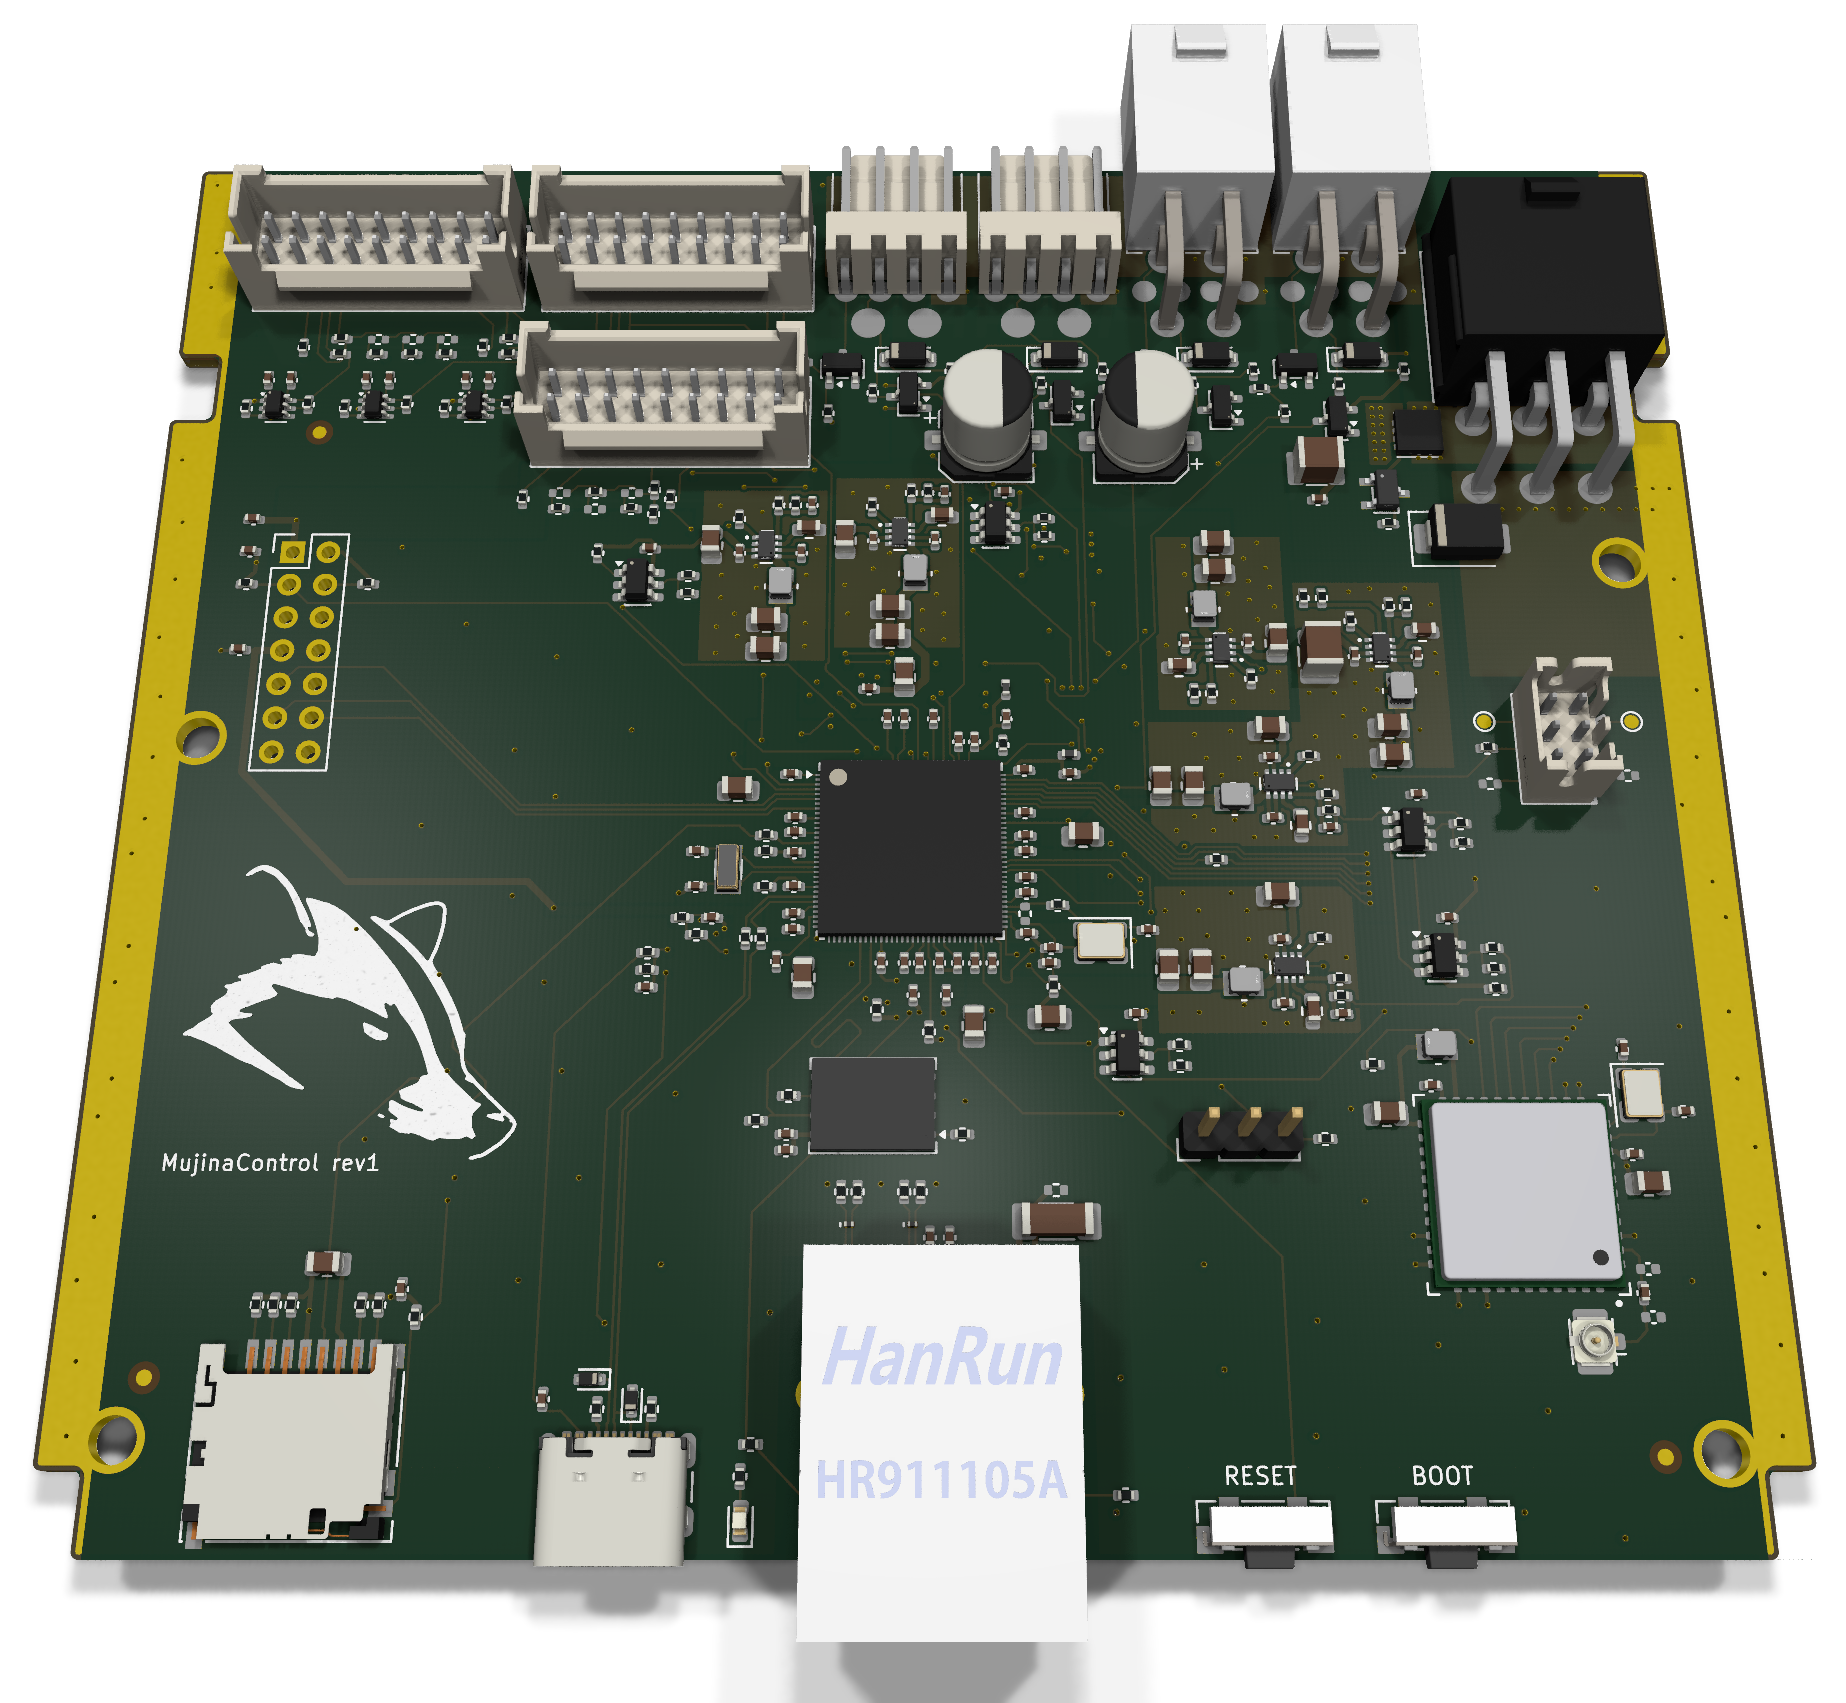
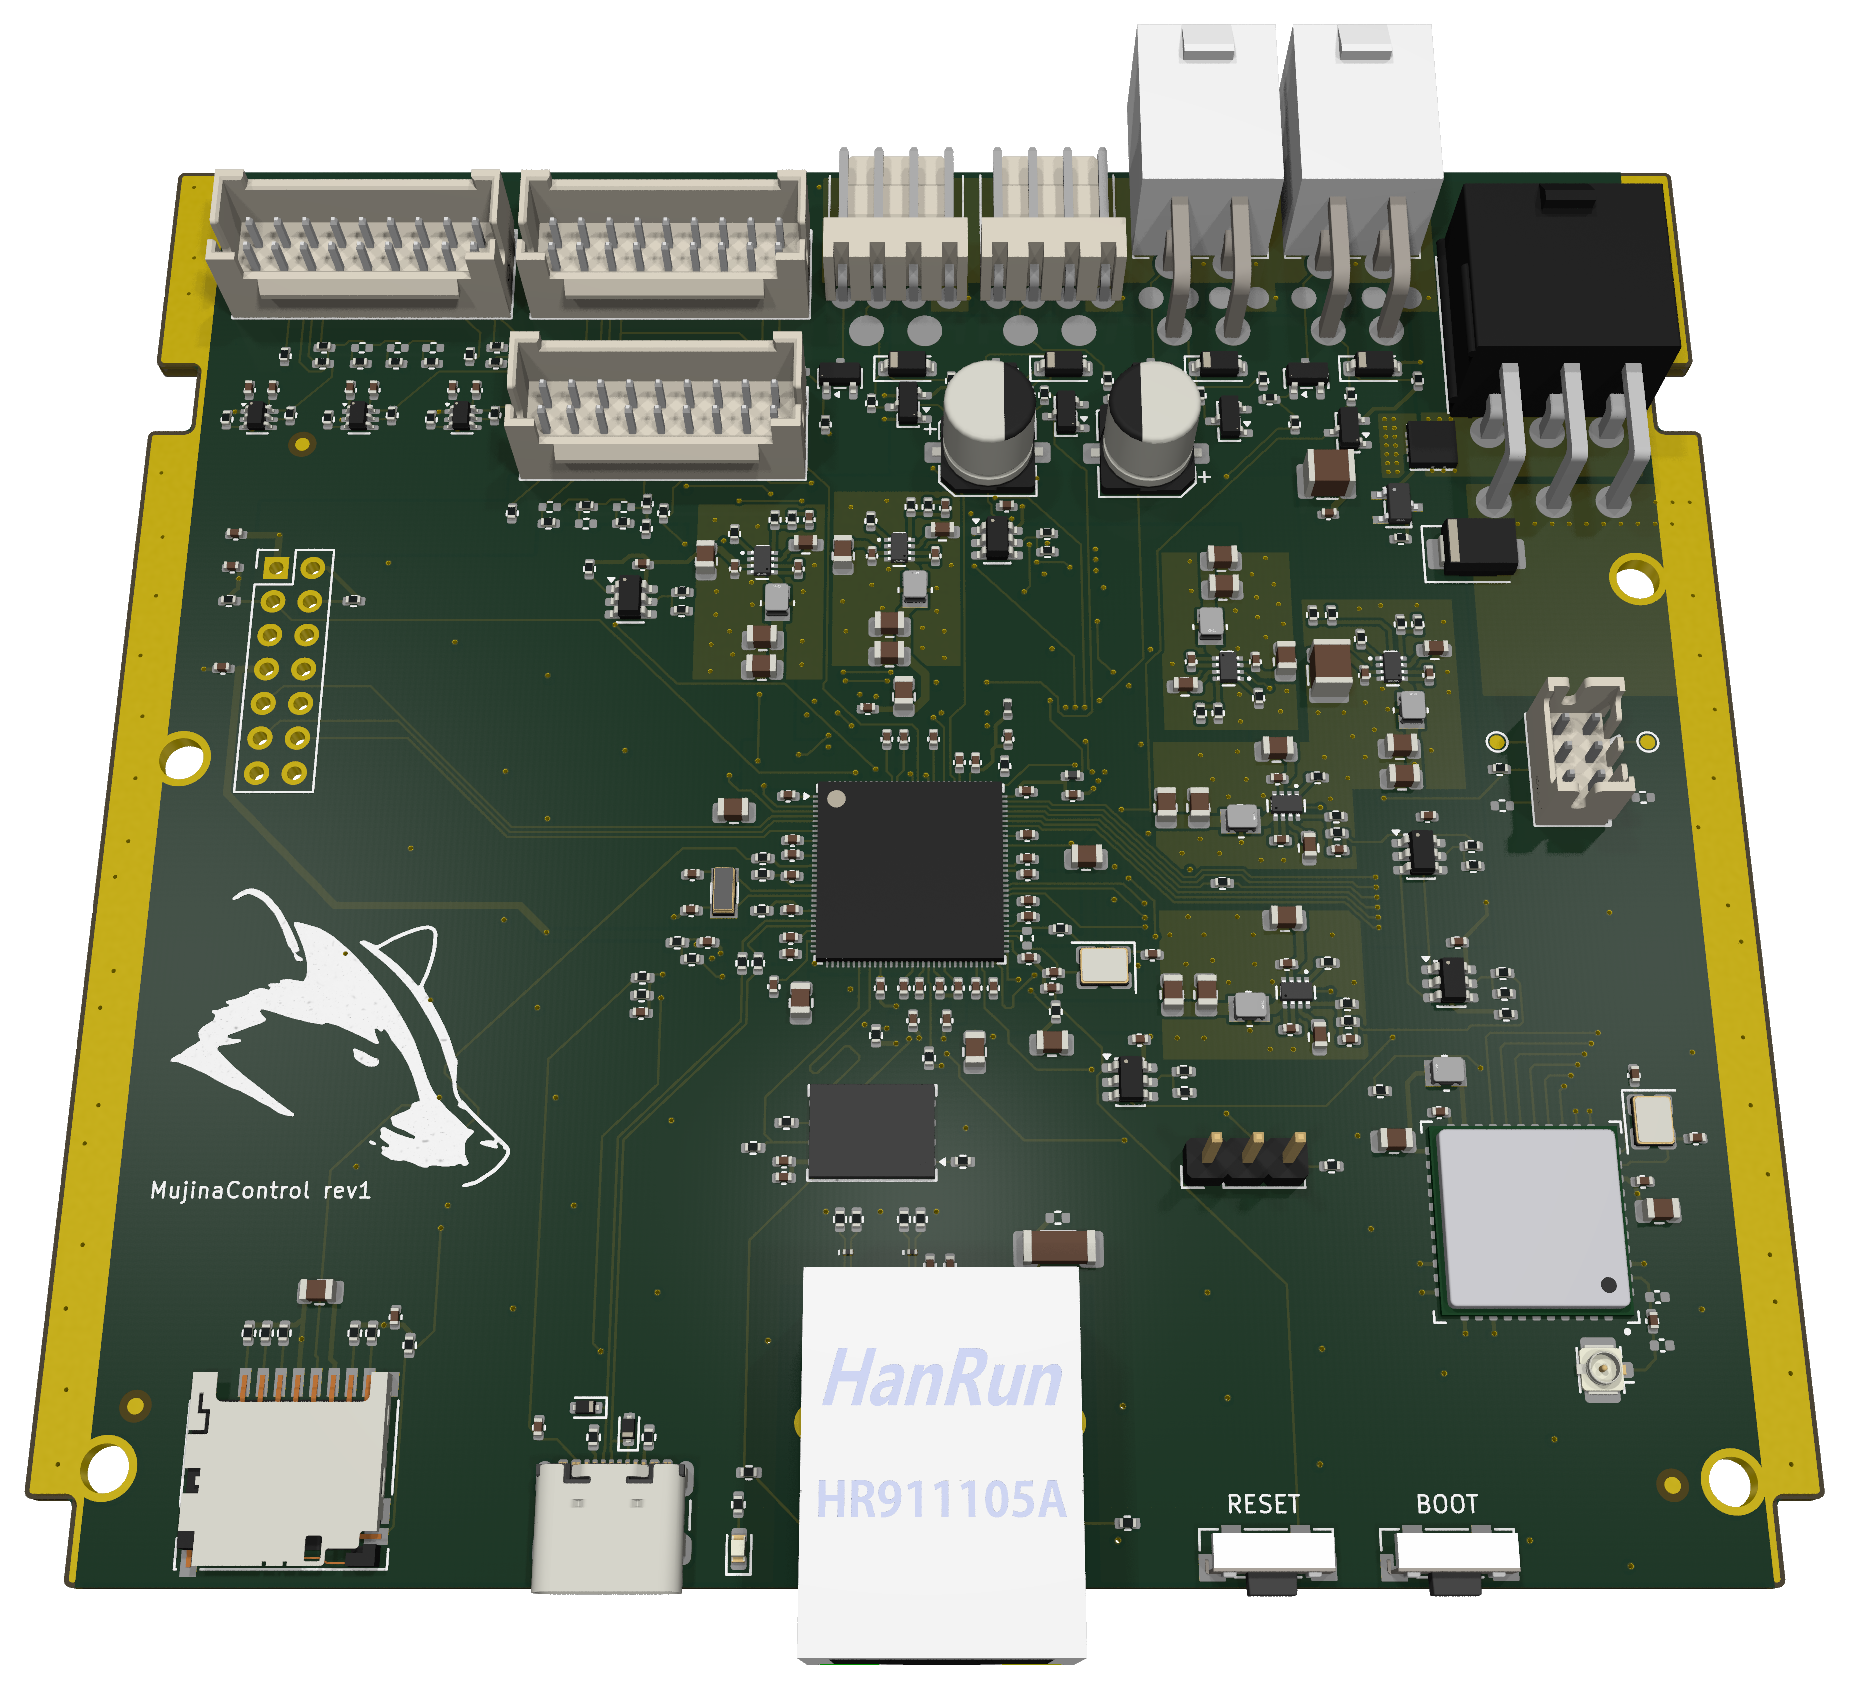
updated render and readme

Changed region(s): [[0.0, 0.0308, 0.9881, 1.0], [0.7102, 0.0, 0.7411, 0.0308]]

diff --git a/README.md b/README.md
@@ -62,8 +62,8 @@ The board is meant to be assembled by the fab. Every purchased part carries `LCS
 
 - [Braiins BCB100](https://github.com/braiins/BCB100): open-source S19 control board (CERN-OHL-S v2), used as the reference for hashboard interface biasing and logic-power control (I2C/UART pull-ups, plug-detect pull-downs and per-port switched 3.3 V). Thanks to Braiins for publishing it.
 - [bitcrane](https://github.com/skot/bitcrane) v3.1 (CERN-OHL v2): form factor, outline, mounting holes, connector pinouts and placements, fan-header options, and the inherited `bitaxe` and `bitcrane` libraries.
-- Raven1106 v1.1: starting RV1106 package-pin definition, QFN footprint and model, and storage reference. Its full SBC circuit was not copied. No top-level licence was found for Raven; clarify reuse terms for the derived library assets before publishing them more widely.
-- Luckfox Pico Pro/Max: SPI NAND reference.
+- [Raven1106](https://github.com/EPSILON0-dev/Raven1106) v1.1: starting RV1106 package-pin definition, QFN footprint and model, and storage reference. Its full SBC circuit was not copied. No top-level licence was found for Raven; clarify reuse terms for the derived library assets before publishing them more widely.
+- [Luckfox Pico Pro/Max](https://wiki.luckfox.com/Luckfox-Pico-RV1106/Downloads/): SPI NAND reference.
 - Rockchip RV1106 datasheet Rev 2.2 and hardware design guide: pin functions, power and layout rules.
 - [TI TPS62933](https://www.ti.com/lit/ds/symlink/tps62933.pdf), [TI TPS3808](https://www.ti.com/lit/ds/symlink/tps3808.pdf), [TI TPS22919](https://www.ti.com/lit/ds/symlink/tps22919.pdf), [Vishay SiSS27DN](https://www.vishay.com/docs/62847/siss27dn.pdf), [onsemi NTTFS008P03P8Z](https://www.onsemi.com/download/data-sheet/pdf/nttfs008p03p8z-d.pdf) and [Nexperia PESD3V3Y1BSF](https://assets.nexperia.com/documents/data-sheet/PESD3V3Y1BSF.pdf) datasheets.
 
